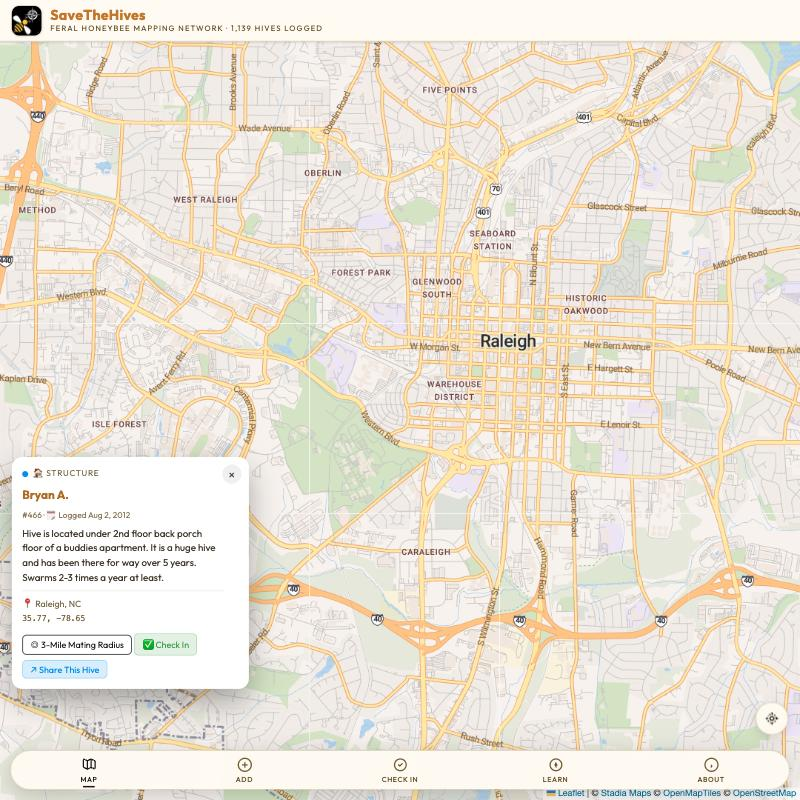
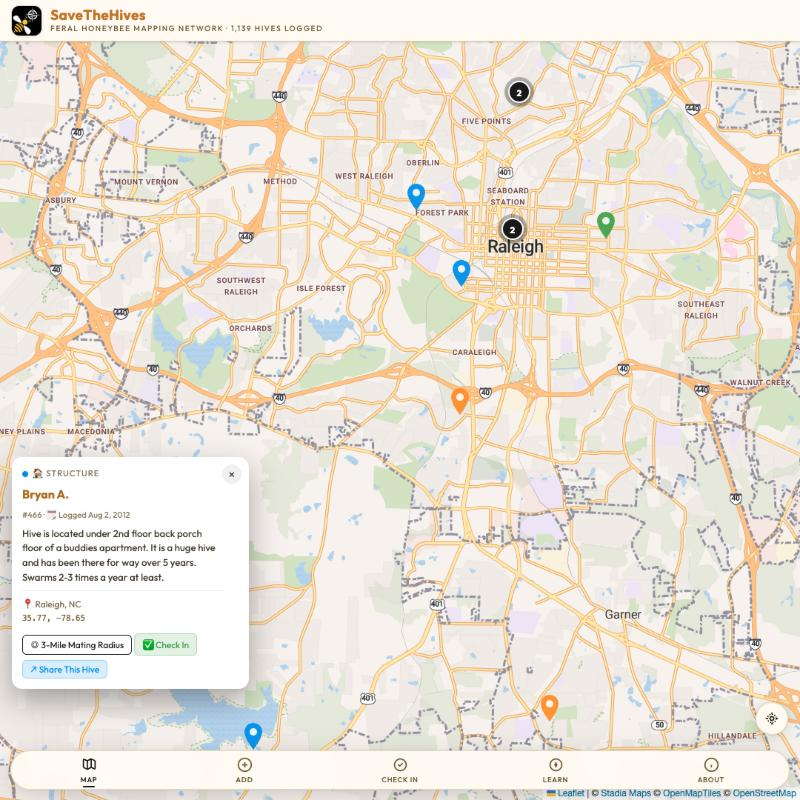
Fix hive detail panel centering its own marker directly underneath itself
showHiveNotePanel()'s flyTo put the hive's exact coordinates at the
viewport center, but #hive-note-panel is a fixed card docked over the
map's lower-left — so the marker landed right behind its own panel,
invisible. Ronnie caught this via the Bryan A./Patrick Schlemmer
screenshots, where neither pin showed up on screen.

Reordered so the panel renders first, then its real rendered box (height
varies with each hive's description length) is used to bias the fly-to
target up-and-right, clear of the card, capped relative to map size so
it can't push off-screen on a small viewport. skipZoom (Validate's
auto-open) is unaffected — it never flies at all.

Recaptured both story screenshots against the fix; pins are now visibly
on the map in each. Old pointer-less versions archived.

diff --git a/app/app.js b/app/app.js
@@ -772,11 +772,29 @@ async function showHiveNotePanel(hive, { skipZoom = false } = {}) {
   // then this flyTo forced zoom 13, destroying that overview. Validate
   // passes skipZoom:true so the panel still opens with the hive's story,
   // but the map stays right where runValidateFilter put it.
-  if (!skipZoom) map.flyTo([hive.lat, hive.lng], Math.max(map.getZoom(), 13), { duration: 0.6 });
-
   const panel = document.getElementById('hive-note-panel');
   panel.innerHTML = `<button class="note-panel-close" onclick="closeHiveNotePanel()" aria-label="Close">&times;</button>${hivePopupHtml(hive)}`;
   panel.classList.add('open');
+
+  // Panel-aware centering (2026-10-14, Ronnie live-testing feedback: "the
+  // ones for Patrick and Bryan don't show the map pointer in the screen
+  // grab"). flyTo-ing straight to the hive's coordinates puts it dead
+  // center — and #hive-note-panel is a fixed card docked over the lower-
+  // left of the map, so the marker landed right underneath its own panel,
+  // invisible. Read the panel's real rendered box (its content-driven
+  // height varies per hive) and bias the fly-to target so the marker ends
+  // up up-and-right of center, clear of the card. Capped relative to the
+  // map's own size so this can't push the target off-screen on a small
+  // viewport.
+  if (!skipZoom) {
+    const zoom = Math.max(map.getZoom(), 13);
+    const mapSize = map.getSize();
+    const panelRect = panel.getBoundingClientRect();
+    const dx = Math.min(panelRect.width / 2 + 24, mapSize.x * 0.3);
+    const dy = Math.min(panelRect.height / 2 + 24, mapSize.y * 0.3);
+    const targetPoint = map.project([hive.lat, hive.lng], zoom).subtract([dx, -dy]);
+    map.flyTo(map.unproject(targetPoint, zoom), zoom, { duration: 0.6 });
+  }
   document.body.classList.add('checkin-open');
 
   // Lazy-load most recent check-in note, same as the old popupopen handler.

diff --git a/app/sw.js b/app/sw.js
@@ -4,7 +4,7 @@
 // Bump CACHE_VERSION on any deploy that changes a cached file (styles.css,
 // app.js, pathfinder.js, icons, images, etc.) so returning visitors pick up
 // the new version instead of continuing to serve the old cached one.
-const CACHE_VERSION = 'v2.14.2'; // Fixed Check-In/Validate auto-open overzooming past the "about an hour of you" overview (app.js, 2026-10-14) — bumping per the standing rule above.
+const CACHE_VERSION = 'v2.14.3'; // Fixed hive-detail flyTo centering the marker directly under its own panel (app.js, 2026-10-14) — bumping per the standing rule above.
 const SHELL_CACHE = `savethehives-shell-${CACHE_VERSION}`;
 const TILE_CACHE = `savethehives-tiles-${CACHE_VERSION}`;
 const TILE_CACHE_MAX_ENTRIES = 200;

diff --git a/ASSET_INDEX.md b/ASSET_INDEX.md
@@ -57,8 +57,8 @@ These all stay exactly where they are. They also double as Facebook post images 
 |---|---|---|---|
 | `marketing/screenshots/map-overview.jpg` | Post-redesign (Oct 11 2026) map hero: new OSM Bright basemap, white filter chips, search bar, black clusters, continental zoom | `marketing/facebook/map-overview_fb-square-1080x1080.jpg` / `_fb-portrait-1080x1350.jpg` | Not yet used — captured Oct 14 2026 |
 | `marketing/screenshots/map-near-you.jpg` | The REAL "Check In" flow, not a staged map view: the "N hives within about an hour of you" banner, the dashed ~50-mile radius, and the nearest hive's story auto-opened (#467, Jan Weems NCMNS — a walnut-tree hive tied to the NC Museum of Natural Sciences). Replaces an earlier staged version (archived) once the overzoom bug below was fixed | `marketing/facebook/map-near-you_fb-square-1080x1080.jpg` / `_fb-portrait-1080x1350.jpg` | Not yet used — recaptured Oct 14 2026 |
-| `marketing/screenshots/map-story-bryan.jpg` | A single real hive's detail panel open (#466, Bryan A., Raleigh NC — huge hive under a back porch, swarms 2-3x/year) — narrative/story framing instead of a flat pin field. Replaces the earlier Charles E. Wallace version (archived — its description mentioned a beekeeper trying to remove the hive, which Ronnie didn't want to lead with) | `marketing/facebook/map-story-bryan_fb-square-1080x1080.jpg` / `_fb-portrait-1080x1350.jpg` | Not yet used — captured Oct 14 2026 |
-| `marketing/screenshots/map-story-patrick.jpg` | A second hive-story shot (#19, San Francisco Zoo — 10+ year colony in the Pachyderm building's hollow wall, Active status, recent check-in shown). Submitter name (Patrick Schlemmer) is CSS-blurred in the screenshot at Ronnie's request | `marketing/facebook/map-story-patrick_fb-square-1080x1080.jpg` / `_fb-portrait-1080x1350.jpg` | Not yet used — captured Oct 14 2026 |
+| `marketing/screenshots/map-story-bryan.jpg` | A single real hive's detail panel open (#466, Bryan A., Raleigh NC — huge hive under a back porch, swarms 2-3x/year) — narrative/story framing instead of a flat pin field. Replaces the earlier Charles E. Wallace version (archived — its description mentioned a beekeeper trying to remove the hive, which Ronnie didn't want to lead with) | `marketing/facebook/map-story-bryan_fb-square-1080x1080.jpg` / `_fb-portrait-1080x1350.jpg` | Not yet used — recaptured Oct 14 2026 |
+| `marketing/screenshots/map-story-patrick.jpg` | A second hive-story shot (#19, San Francisco Zoo — 10+ year colony in the Pachyderm building's hollow wall, Active status, recent check-in shown). Submitter name (Patrick Schlemmer) is CSS-blurred in the screenshot at Ronnie's request | `marketing/facebook/map-story-patrick_fb-square-1080x1080.jpg` / `_fb-portrait-1080x1350.jpg` | Not yet used — recaptured Oct 14 2026 |
 | `marketing/screenshots/map-mating-radius.jpg` | Mating-radius circles toggled on across ~12 Triangle-area hives, overlapping rings — visual for the Genetic Goldmine/connectivity science angle | `marketing/facebook/map-mating-radius_fb-square-1080x1080.jpg` / `_fb-portrait-1080x1350.jpg` | Not yet used — captured Oct 14 2026 |
 | `marketing/screenshots/map-filter-live-tree.jpg` | Live Tree filter chip active (green, selected state), reduced pin set + live count — demonstrates the new multi-select filter UI | `marketing/facebook/map-filter-live-tree_fb-square-1080x1080.jpg` (square only) | Not yet used — captured Oct 14 2026 |
 | `marketing/video/savethehives-tour-v3.mp4` | 31.5s mission/tour video, no voiceover (burned-in captions only, by design — see `AI_VIDEO_PROMPT_TOUR.md`) | — | Attempted Oct 6 2026 as a Reel; **Metricool couldn't fetch this file as of this date — verify it's actually reachable at `https://savethehives.org/marketing/video/savethehives-tour-v3.mp4` (or wherever it lands) before relying on it again** |
@@ -110,6 +110,7 @@ replaced by the `map-*` rows above:
 | `map-screenshot-cropped_fb-square-1080x1080.jpg` / `_fb-portrait-1080x1350.jpg` | FB crop of the cropped screenshot |
 | `map-near-you-synthetic.jpg` / `_fb-square-1080x1080.jpg` / `_fb-portrait-1080x1350.jpg` | First "near you" shot — a manually staged map.setView() at the Triangle, no real UI flow. Archived Oct 14 2026 same day as capture, replaced by a screenshot of the actual Check-In/Validate flow once its overzoom bug (see `app/app.js` `showHiveNotePanel`/`runValidateFilter`, fixed same day) stopped it from landing on the right view on its own |
 | `map-hive-story.jpg` / `map-hive-story_fb-square-1080x1080.jpg` / `_fb-portrait-1080x1350.jpg` | First hive-story shot (Charles E. Wallace, #474) — archived Oct 14 2026, same day as capture, because Ronnie didn't want to lead with its "a local beekeeper tried to use a vaccum contraption to get them out" line. Replaced by `map-story-bryan.jpg` and `map-story-patrick.jpg` above |
+| `map-story-bryan-no-pin.jpg` / `map-story-patrick-no-pin.jpg` (+ FB crops) | First versions of the Bryan/Patrick story shots — Ronnie noticed the hive's own marker pin wasn't visible on the map in either one. Root cause: `showHiveNotePanel()`'s flyTo centered the hive's coordinates exactly under `#hive-note-panel` itself (a fixed card docked over the lower-left of the map), so the pin landed directly behind its own panel. Fixed in `app/app.js` same day (now biases the fly-to target up-and-right, clear of the panel, sized off the panel's actual rendered box) and these were recaptured against the fix |
 
 ## Known gaps as of this reorg (Sep 26 2026)
 
